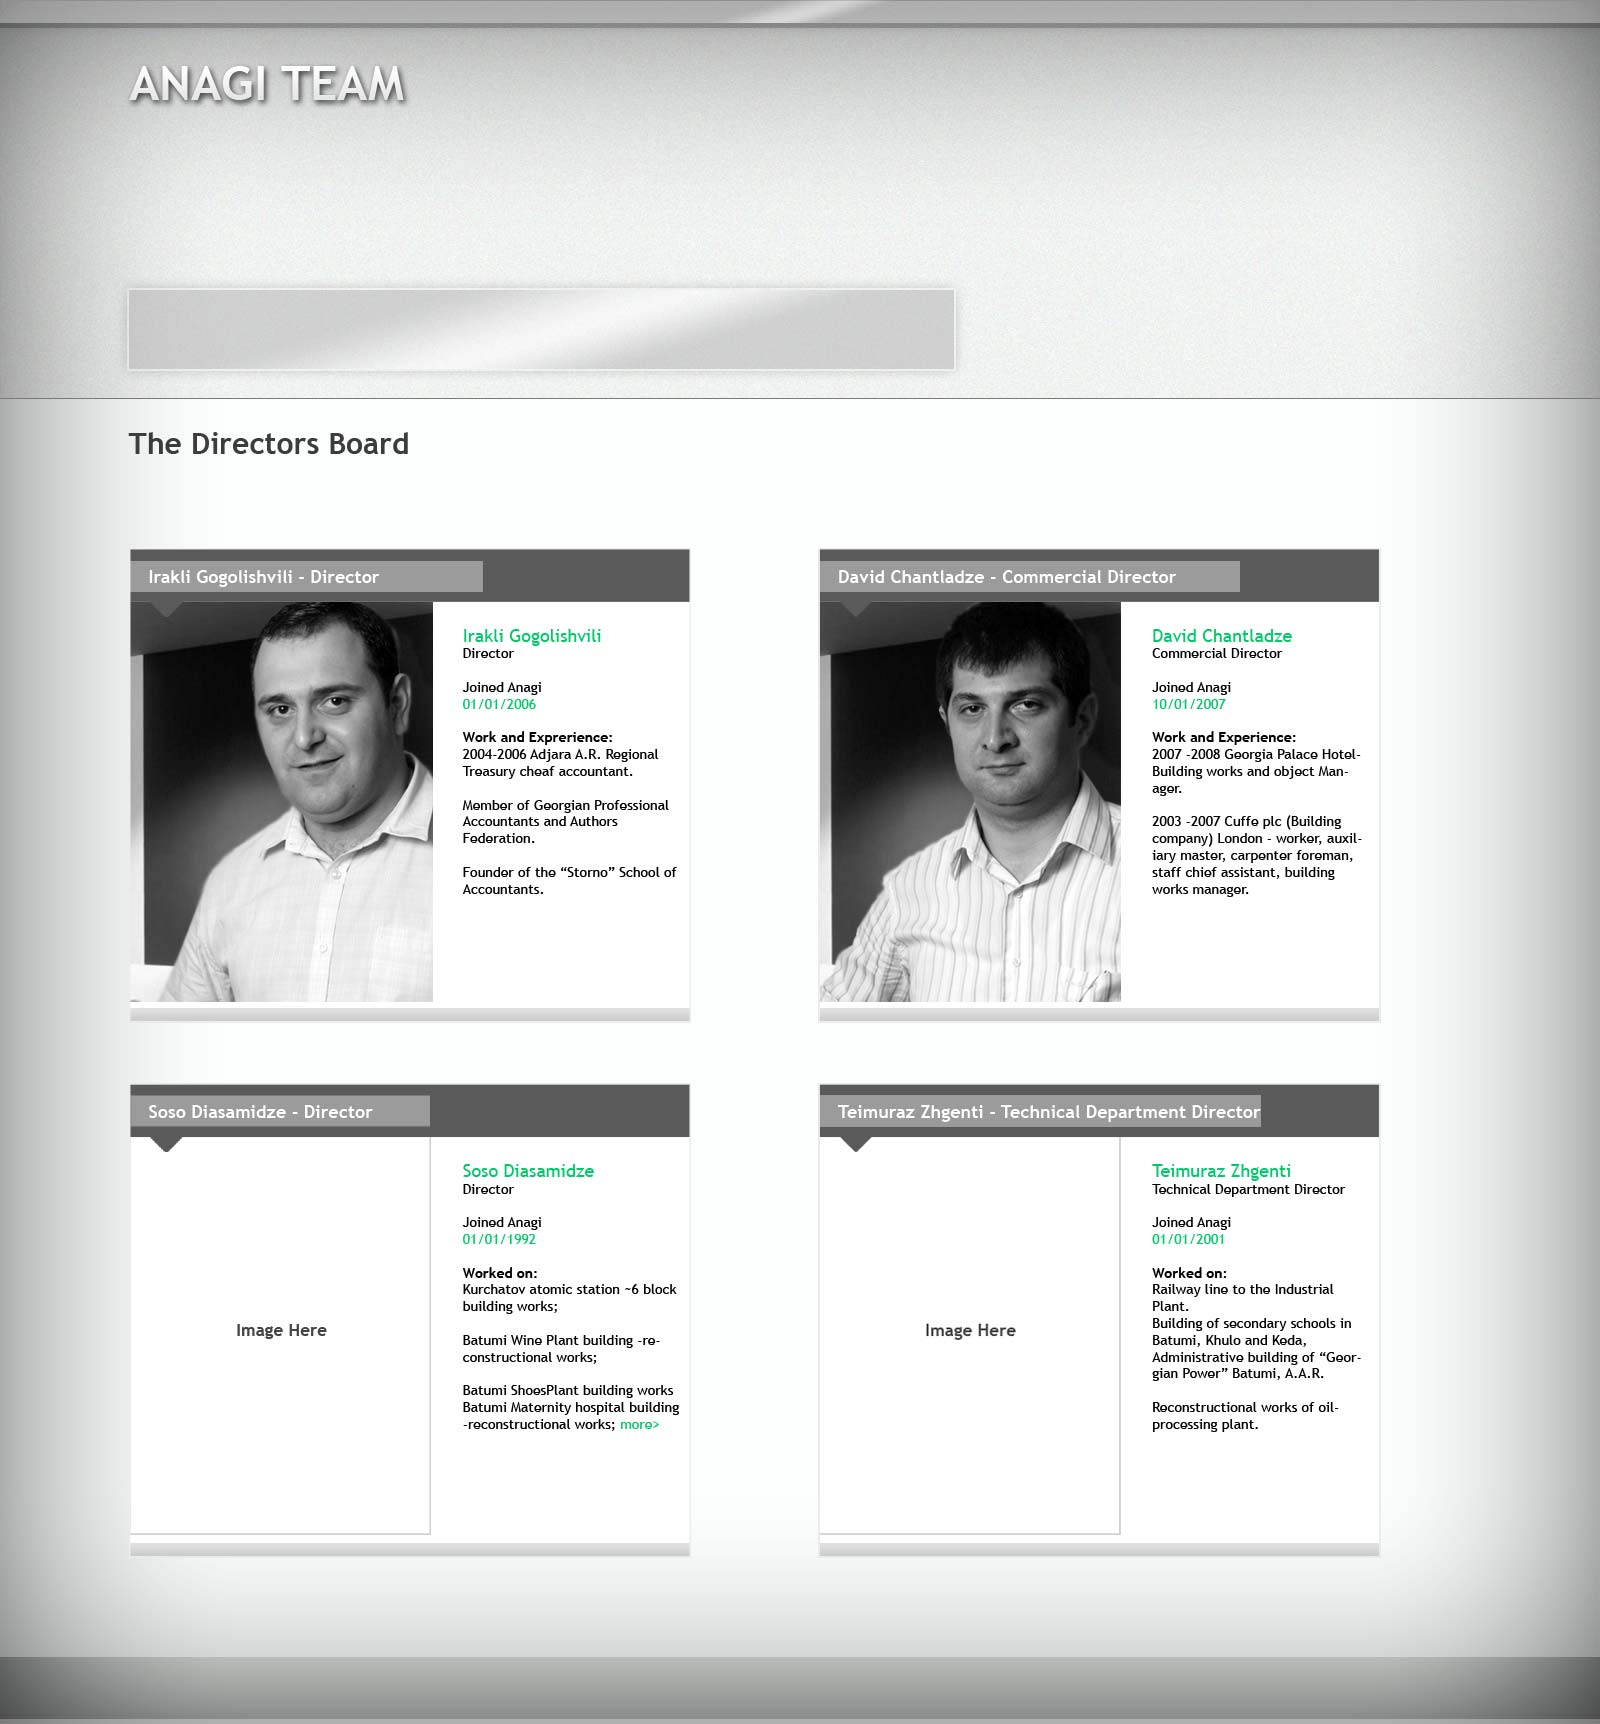
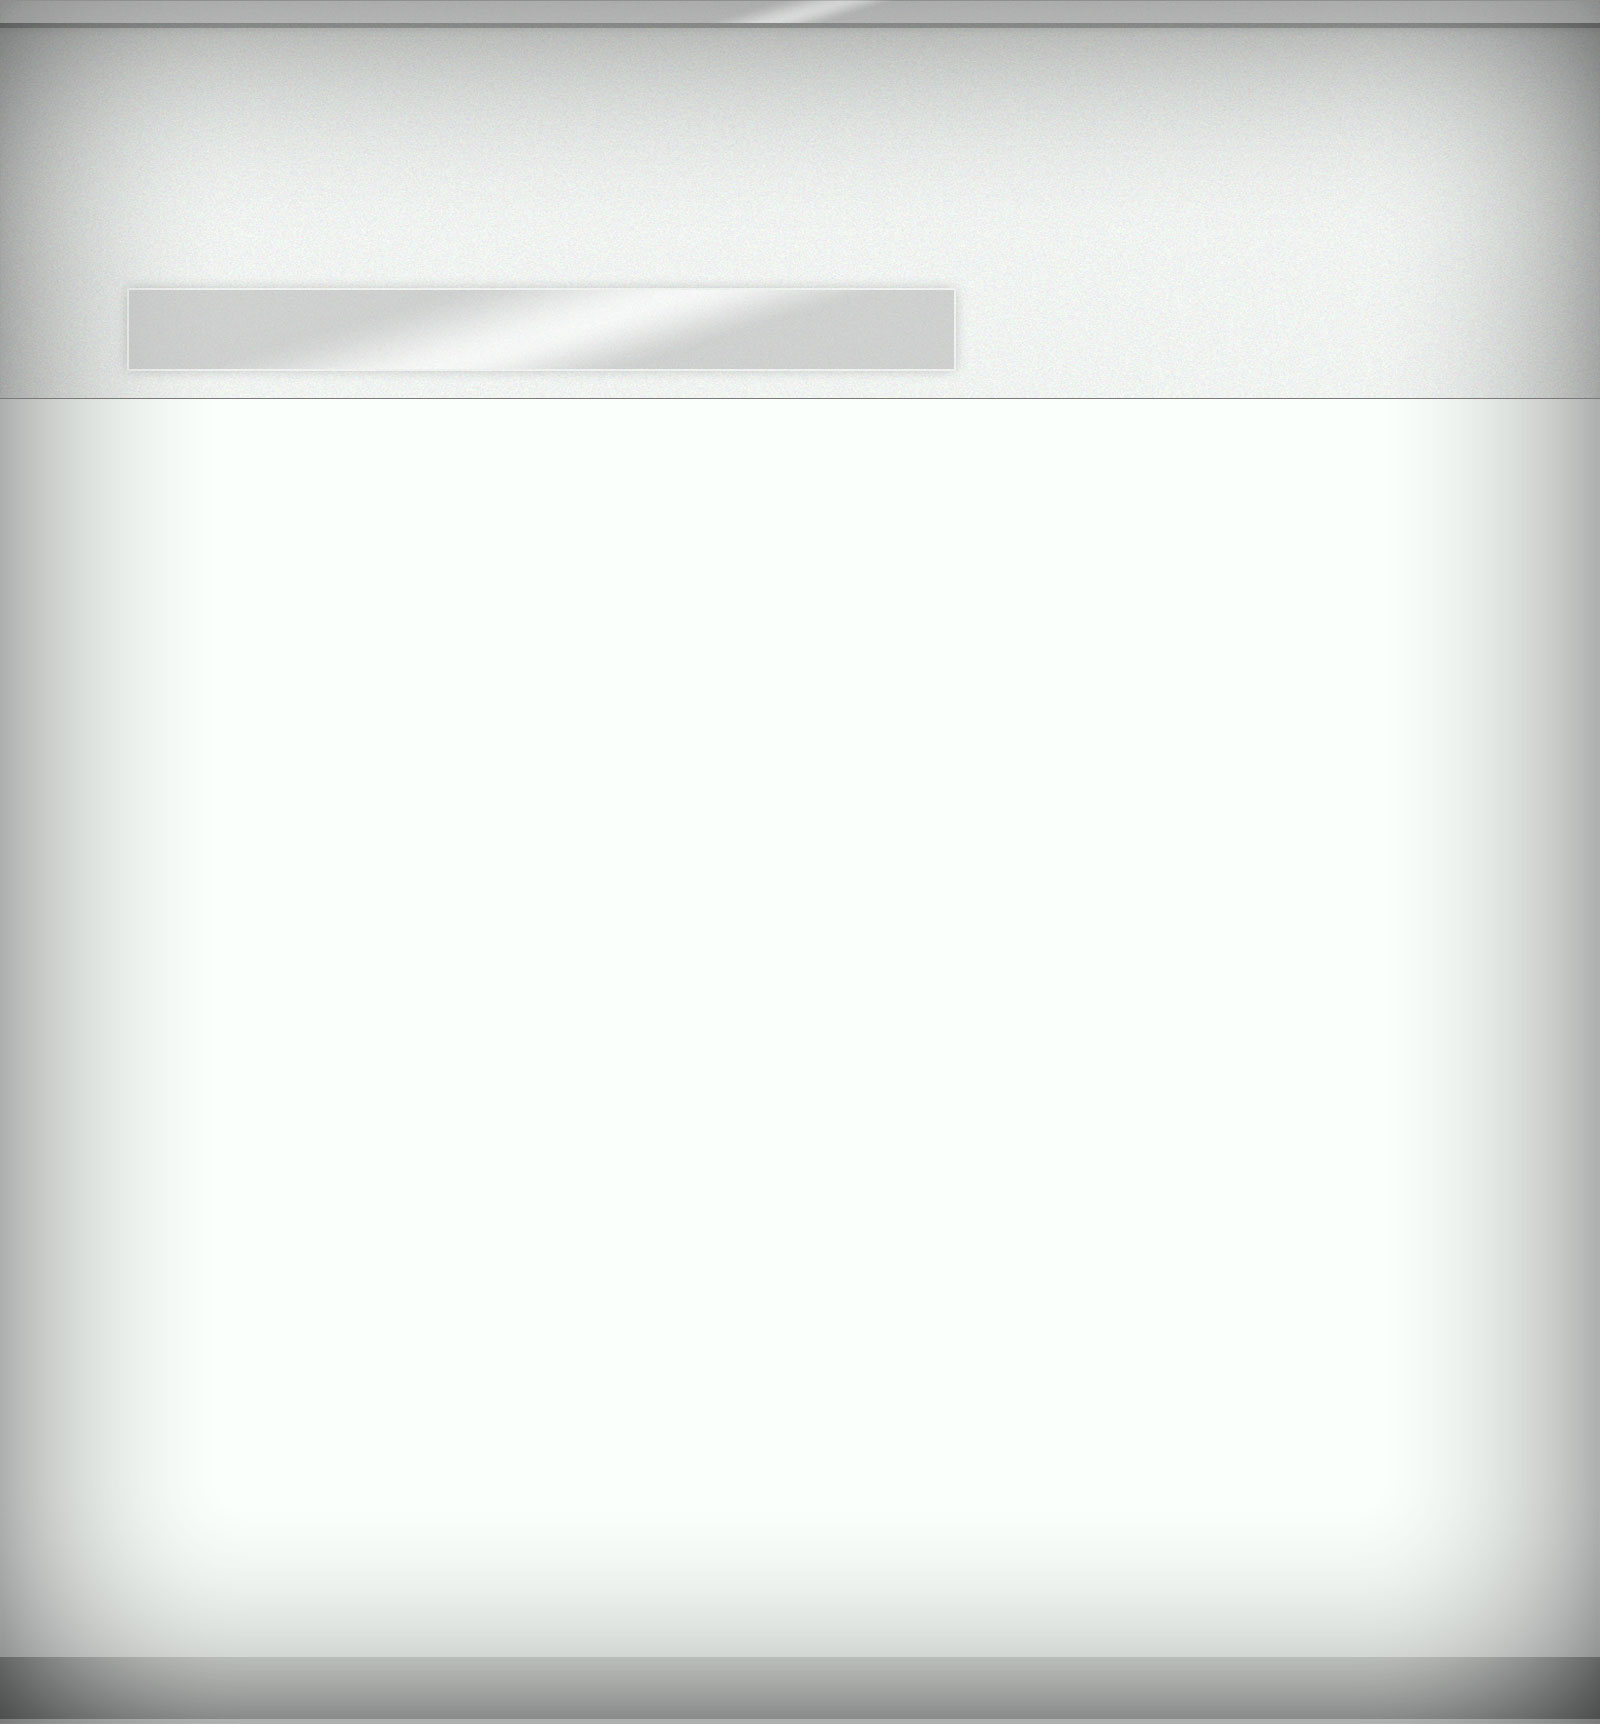
first adjustments on team peage 1600x900

diff --git a/css/team_info1600x900.css b/css/team_info1600x900.css
@@ -1,18 +1,8 @@
-html#team_info{background: url(../images/background_anagiteam1600x900.jpg) no-repeat 0 0 scroll;min-width: 1585px;min-height: 1724px;}
-html#technical_dep{background: url(../images/background_technical_department1600x900.jpg) no-repeat 0 0 scroll;min-width: 900px;}
-html#financial_dep{background: url(../images/background_financial_department1600x900.jpg) no-repeat 0 0 scroll;min-width: 900px;}
-html#line_engineers{background: url(../images/background_lineengineers1600x900.jpg) no-repeat 0 0 scroll;min-width: 900px;}
-html#human_resources{background: url(../images/background_human1600x900.jpg) no-repeat 0 0 scroll;min-width: 900px;}
-html#mechanization{background: url(../images/background_mechanization1600x900.jpg) no-repeat 0 0 scroll;min-width: 900px;}
-html#shops{background: url(../images/background_shop1600x900.jpg) no-repeat 0 0 scroll;min-width: 900px;}
-
+div.container{background: url(../images/background_anagiteam1600x900.jpg) no-repeat 0 0 scroll;}
 html#juridical{background: url(../images/background_juridical_department1600x900.jpg) no-repeat 0 0 scroll;min-width: 900px;}
-
-
-h1#anagi_team{text-indent: -9999px;}
 h2 {
     margin-bottom: -30px;
-    text-indent: -9999px;
+    margin-left: 12px;
 }
 h5 {
     font-size: 8pt;
@@ -148,22 +138,73 @@ p {
     margin-top: 10px;
     width: 383px;
 }
-#middlecontent_projects{
-font-size: 7pt;
-padding-left: 36px;
-position: relative;
-text-align: left;
-top:45px;
-width: 75%;
-
-}
-#footer {
-    background: none repeat scroll 0 0 transparent;
-    bottom: 0;
-    clear: left;
-    color: #FFFFFF;
-    height: 42px;
+#middlecontent_projects {
+    font-size: 7pt;
+    height: 520px;
+    padding-left: 36px;
     position: relative;
-    top: 524px;
-    width: 100%;
+    text-align: left;
+    top: 45px;
+    width: 75%;
+}
+/* CONTENT */
+h1#anagi_team {
+    margin-bottom: 33px;
+    margin-left: 11px;
+    margin-top: -33px;
+}
+/* TEAM BOXES*/
+.team_box {
+    background: url("../images/team_box_bkg1600x900.jpg") repeat scroll 0 0 transparent;
+    height: 475px;
+    margin-bottom: 42px;
+    margin-right: 64px;
+    text-align: left;
+    width: 563px;
+}
+ul.list_box li {
+    float: left;
+}
+ul.list_box {
+    padding-left: 118px;
+    position: relative;
+}
+.list_box h1 {
+    color: #FFFFFF;
+    font-size: 10pt;
+    line-height: 49px;
+    margin-left: 10px;
+    position: relative;
+    text-shadow: 0 0 0;
+}
+h2.title_member {
+    color: #00C969;
+    font-size: 11pt;
+    margin-bottom: 0;
+    margin-top: 12px;
+    position: relative;
+    text-indent: 0;
+}
+.team_box img {
+    float: left;
+    height: 363px;
+    margin-right: 21px;
+    width: 275px;
+}
+span.team_member_txt, span.destaq {
+    display: block;
+    font-size: 9pt;
+    margin-bottom: 5px;
+    width: 490px;
+}
+span.destaq {
+    font-weight: bold;
+}
+
+/* FOOTER */
+
+#footer {
+    bottom: 0;
+    height: 57px;
+    position: absolute;
 }

diff --git a/team_info.html b/team_info.html
@@ -8,11 +8,11 @@
     <link rel="stylesheet" href="css/style.css" type="text/css" media="screen and (device-height:768px)">
     <link rel="stylesheet" href="css/style1280x800.css" type="text/css" media="screen and (device-height:800px)"> 
     <link rel="stylesheet" href="css/style1280x1024.css" type="text/css" media="screen and (device-height:1024px)">   
-    <link rel="stylesheet" href="css/style1600x900.css" type="text/css" media="screen and (device-height:900px)">    
+    <link rel="stylesheet" href="css/style1600x900.css" type="text/css" media="screen and (min-width:1600px)">    
     <link rel="stylesheet" href="css/team_info.css" type="text/css" media="screen and (device-height:768px)">
     <link rel="stylesheet" href="css/team_info1280x800.css" type="text/css" media="screen and (device-height:800px)">
     <link rel="stylesheet" href="css/team_info1280x1024.css" type="text/css" media="screen and (device-height:1024px)">
-    <link rel="stylesheet" href="css/team_info1600x900.css" type="text/css" media="screen and (device-height:900px)">
+    <link rel="stylesheet" href="css/team_info1600x900.css" type="text/css" media="screen and (min-width:1600px)">
 
 
 
@@ -57,7 +57,7 @@
 </head>
 <body class="company_bg">
 
-
+<div class="container">
 
 	
 		<div id="topline"></div>
@@ -200,6 +200,7 @@
 		
 
 
+</div>
 </body>
 
 </html>

diff --git a/css/team_info1280x800.css b/css/team_info1280x800.css
@@ -1,4 +1,5 @@
 html#team_info,html#technical_dep,html#financial_dep,html#line_engineers,html#human_resources,html#mechanization,html#juridical{background: url(../images/background_team1280x800.jpg) no-repeat 0 0 scroll;min-width: 1008px;min-height:1568px;}
+
 html#shops{background: url(../images/background_shops1280x800.jpg) no-repeat 0 0 scroll;min-width: 1008px;}
 
 

diff --git a/css/style1600x900.css b/css/style1600x900.css
@@ -61,7 +61,7 @@ h5{margin:0;padding: 0;}
 .container {
     margin-left: auto;
     margin-right: auto;
-    min-height: 900px;
+    min-height: 1724px;
     position: relative;
     width: 1600px;
 }
